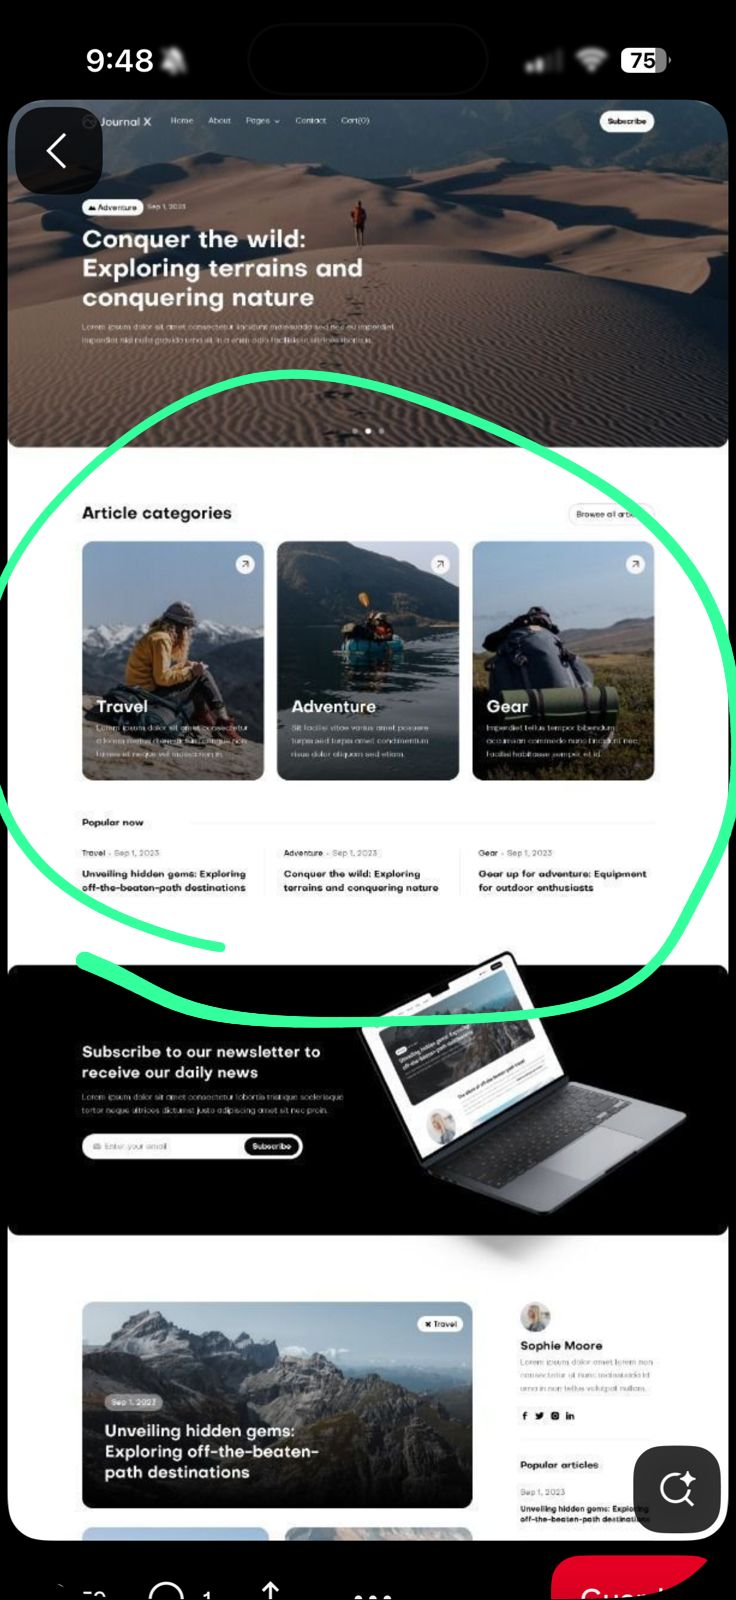
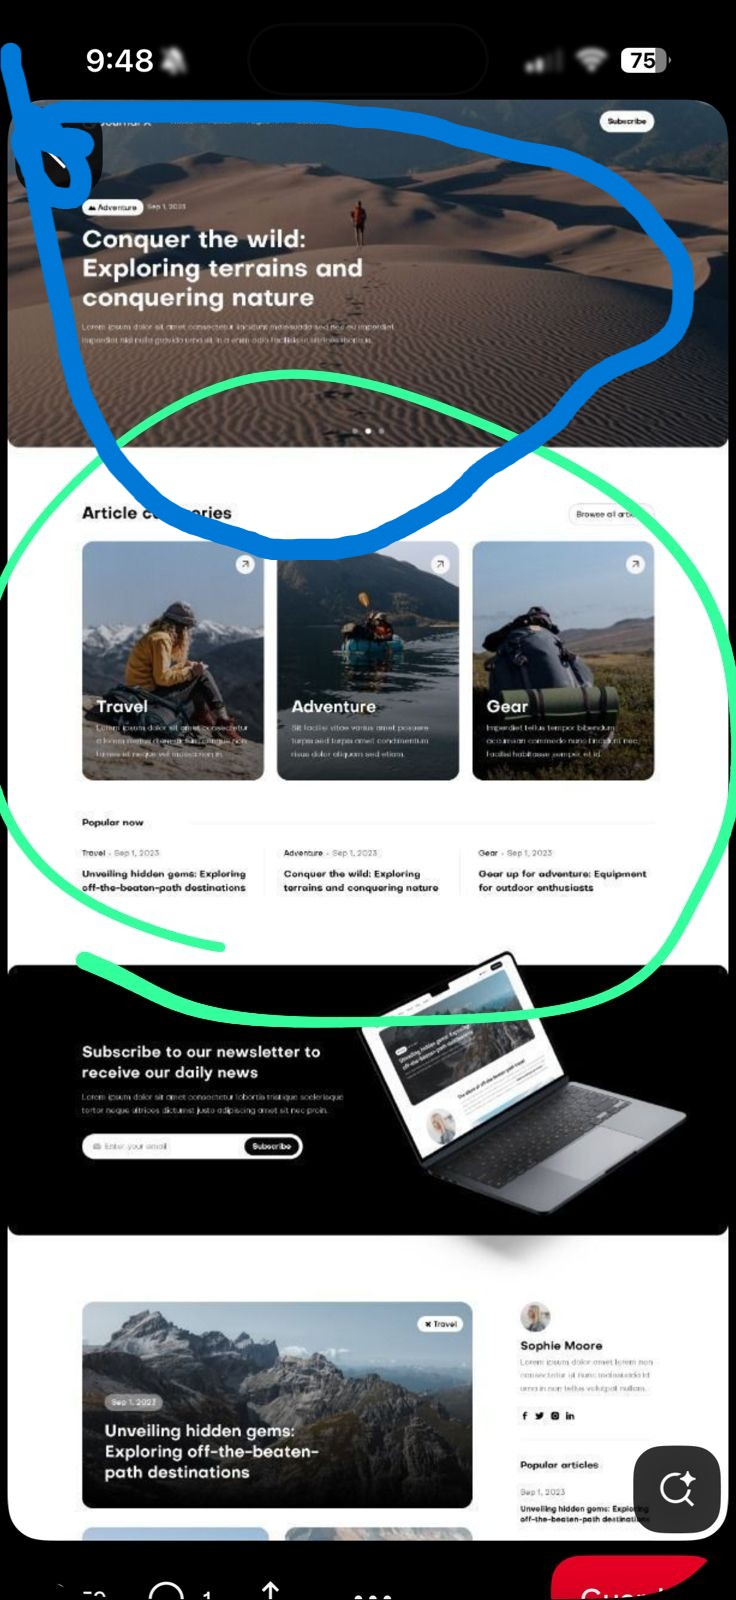
eventos

Changed region(s): [[0.0, 0.0, 0.9688, 0.375]]

diff --git a/style.css b/style.css
@@ -650,7 +650,7 @@ img {
     }
     .eventos-collage{
         grid-template-columns: 1fr;
-        border-radius: 12px;
+        border-radius: 0 0 12px 12px;
     }
     .eventos-cover{
         min-height: 320px;
